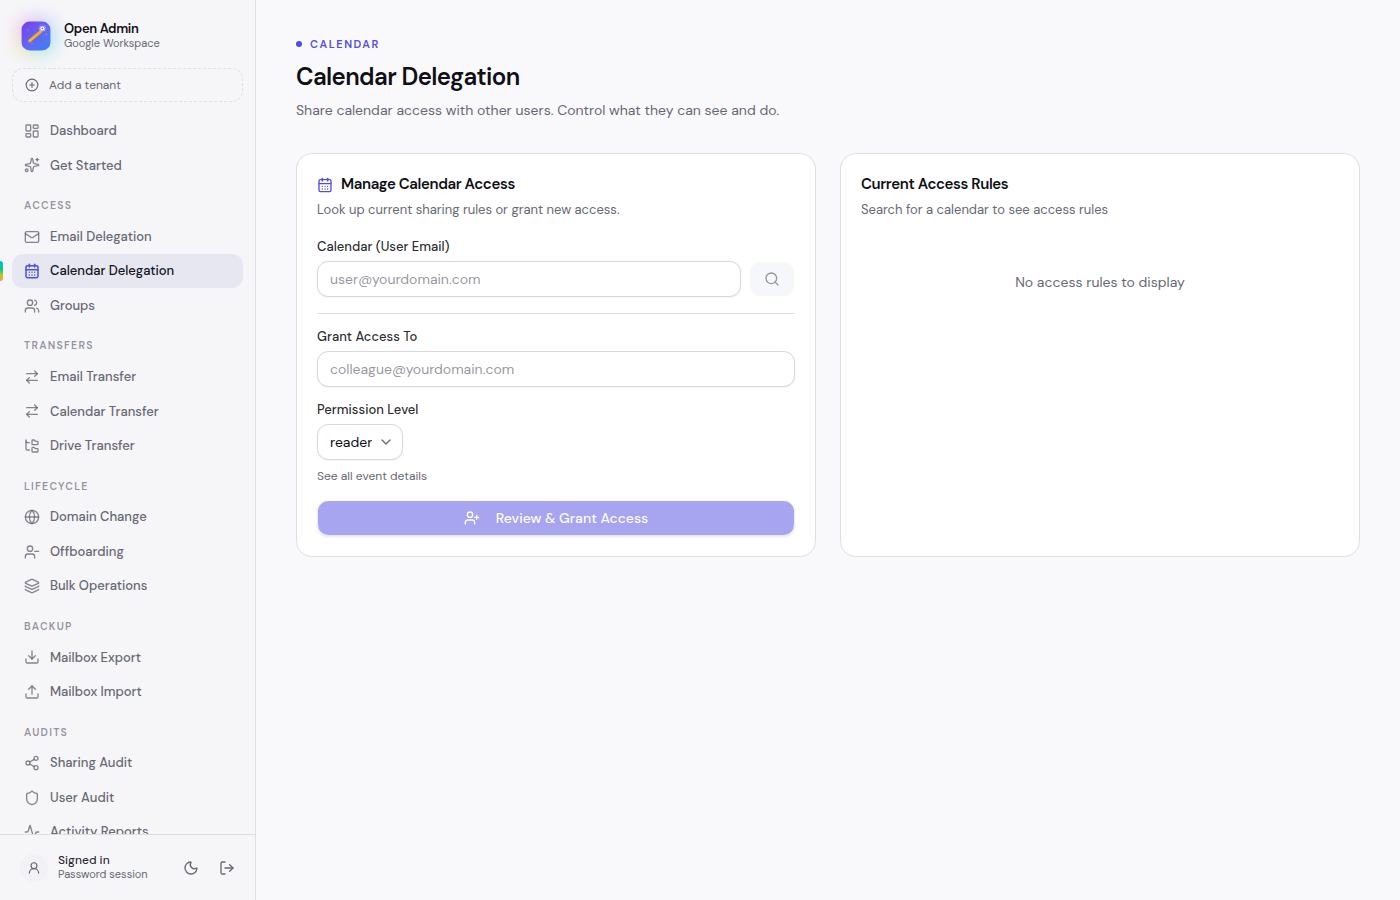
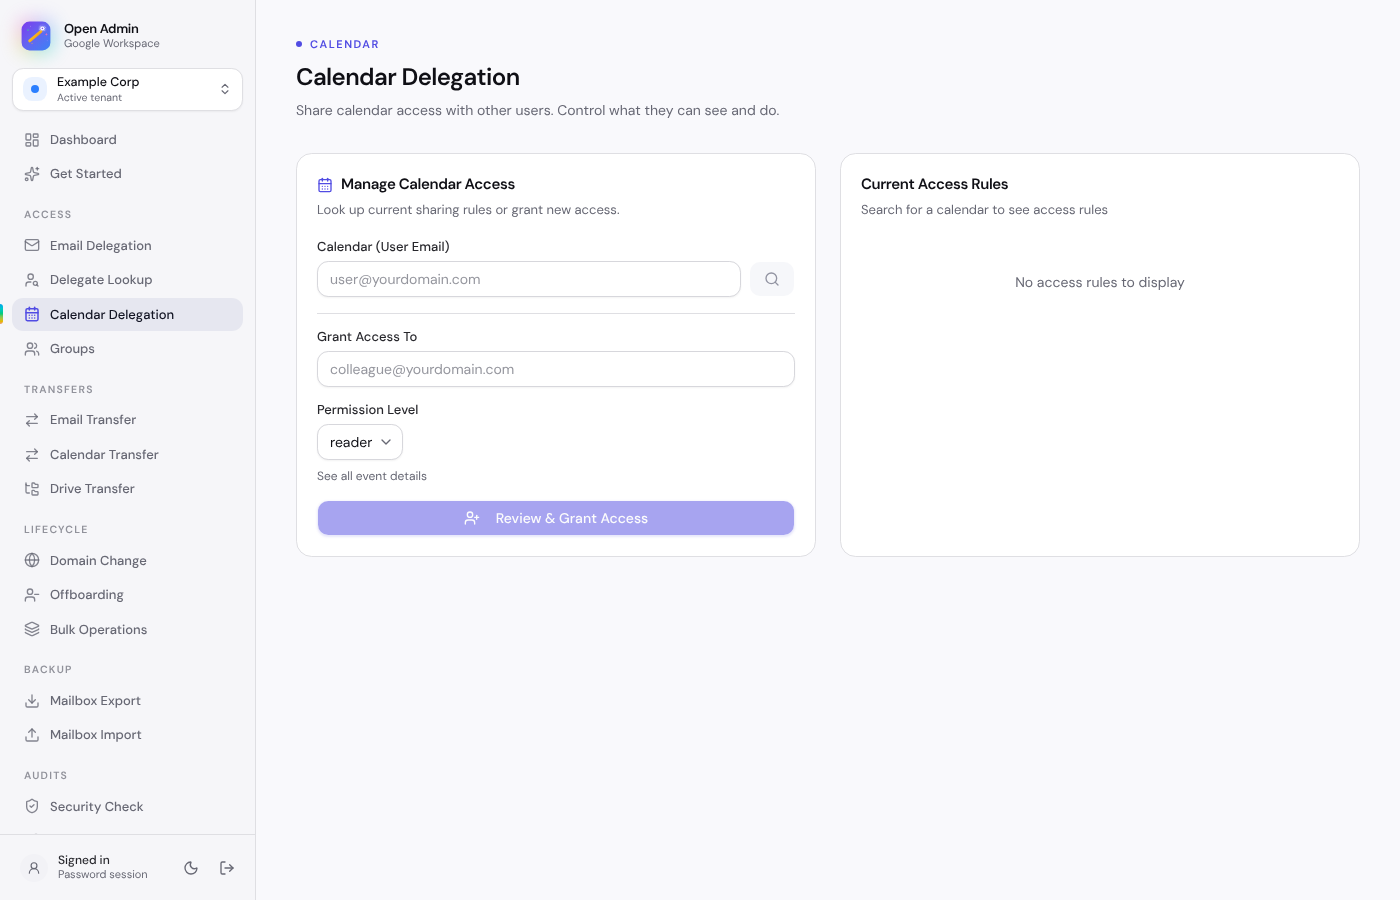
Bring the README up to date with the app: features, permissions, screenshots
An audit of the README against the app found it had fallen behind in three
ways.

Features. Groups, Drive Transfer, Bulk Operations, Activity Reports, the
Security Digest and the in-app Audit Log viewer are all in the sidebar and
were not mentioned anywhere. Each has an entry now. Offboarding's entry gains
the group-removal step it has had for a while, and User Audit's the group
memberships and recent sign-ins it reads.

Directions. The service-account setup listed 12 scopes; the app checks 14.
admin.directory.group and admin.reports.audit.readonly were missing, so a
tenant set up from the README had Groups, Activity Reports and the
offboarding group step fail with an authorisation error. The list now matches
preflight.ts exactly, and points at Tenants -> Test scopes, which says which
ones Google is missing.

Screenshots. Ten pages had none, and the rest dated from September and showed
a sidebar without the pages added since. All are regenerated from the current
build, light and dark, against a sample tenant, and the README lists every
page in sidebar order. scripts/screenshots.mjs now covers every page for the
same reason; security-check.png stays out of it because it shows a finished
scan, which loading a URL can't produce.

Claude-Session: https://claude.ai/code/session_01SD8Z1GAEVkuY2dYGiQVZa9

diff --git a/README.md b/README.md
@@ -24,20 +24,25 @@ This project takes `gws` and wraps it in a clean web UI with AI superpowers. Ins
 - 📧 **Email Delegation** — Give someone access to another user's mailbox. No password sharing, no drama. If Google refuses because the owner (or the delegate) is suspended, the dialog says so and offers to re-enable the account and retry, behind a typed confirmation.
 - 🔎 **Delegate Lookup** — The reverse question: which mailboxes can *this person* read, and since when? Gmail only lists delegates per mailbox, so the lookup walks every active mailbox in the tenant (paged, cancellable; suspended accounts are counted but skipped, since Google won't read their settings) and shows every match with a one-click remove. Grants made through Open Admin show their exact date and operator from the audit log; everything else shows how long Open Admin has known about it, because Google doesn't record when a delegate was added.
 - 📅 **Calendar Delegation** — Share a calendar with configurable permissions (free/busy, read, edit, full control).
+- 👥 **Groups** — Browse and search groups, see who's in each one and change it (member, manager or owner), and look up every group a user belongs to.
 - 🔄 **Calendar Transfer** — Hand off calendar ownership to another user. Great for offboarding.
 - 📬 **Email Transfer** — Set up auto-forwarding from one mailbox to another. External-domain transfers require explicit confirmation.
+- 🗂 **Drive Transfer** — Pick folders in a user's Drive and hand ownership of each folder, and everything inside it, to another user in the same tenant. Behind a typed confirmation.
 - 🌐 **Domain Change** — Switch a user's primary email to a different domain in your tenant. Server-side preflight + read-after-write verification.
-- 👋 **Offboarding** — One screen, one click. Vacation responder, mail forwarding, calendar + Drive ownership transfer, OAuth token revocation, sign-out, and account suspension — in the right order, with full diff preview before anything fires.
+- 👋 **Offboarding** — One screen, one click. Vacation responder, mail forwarding, calendar + Drive ownership transfer, removal from every group, OAuth token revocation, sign-out, and account suspension — in the right order, with full diff preview before anything fires.
+- 🧮 **Bulk Operations** — Paste or upload a CSV and run one operation across many users: add or remove a mailbox delegate, or set up forwarding. Every row is validated before anything fires, each row reports its own result, and the results export as a CSV.
 - 💾 **Mailbox Export** — Back up a user's entire Gmail mailbox to a portable file. Choose **NDJSON** for a full-fidelity backup (raw MIME with labels and dates preserved, restorable via Mailbox Import) or **mbox** for a standard mailbox file you can open in Thunderbird, Apple Mail, or convert to PST. Walks the mailbox page by page, streams straight to disk, cancellable mid-run (you keep what's gathered).
 - 📥 **Mailbox Import** — Restore a mailbox export into another user. Recreates the source's labels by name, then inserts every message via IMAP-style append (no re-delivery, no spam reclassification) with original dates intact — gated behind a typed confirmation since it writes into a live mailbox.
 - 🩺 **Security Check** — One read-only pass over the whole tenant for the four things that most often lead to trouble: accounts without 2-Step Verification (administrators first), active accounts nobody signs in to (30 days to a year, your pick), mailboxes forwarding mail outside your domains — by the forwarding setting or by a filter, with the ones that delete the original called out — and outside apps holding access to mail, Drive or admin settings, with who granted each. Paged and cancellable, CSV export, and it won't call a check clean if there were accounts it couldn't read.
+- 📈 **Activity Reports** — Sign-in and Admin Console activity straight from Google's Reports API, by user and period, with CSV export.
 - 🔍 **External Sharing Audit** — Per-user or tenant-wide Drive scan that surfaces every file shared outside your verified domains, including link-shared / "anyone with link" content. Cancellable, progress-tracked, CSV export, and one-click "revoke external sharing" per file or in bulk — strips only external permissions, leaves internal collaborators alone.
 - 🏢 **Multi-Tenant Support** — Configure multiple Google Workspace environments (Production, Sandbox, etc.) and switch between them instantly from the sidebar. Per-request tenant isolation — nothing carries over between tenants.
 
 ### AI-powered (Gemini)
 
 - ✨ **AI Command** (right on the dashboard) — Type what you need in plain English. *"Give sarah access to john's mailbox"* → it parses the intent, validates the params, shows you what it'll do, and waits for your OK. No menu hunting, no extra clicks.
-- 🛡 **User Audit** — Enter a user's email and get a full AI-generated report: who has access to their mailbox, calendar sharing rules, forwarding config, and security flags.
+- 🛡 **User Audit** — Enter a user's email and get a full AI-generated report: who has access to their mailbox, calendar sharing rules, forwarding config, group memberships, recent sign-ins, and security flags.
+- 🧾 **Security Digest** — On the Activity Reports page: a Gemini summary of the last few days of sign-in and admin activity, so you read a paragraph instead of a log.
 
 ### Safety & ops
 
@@ -47,7 +52,7 @@ This project takes `gws` and wraps it in a clean web UI with AI superpowers. Ins
 - 💼 **Portable configuration** — Export everything — single sign-on settings, tenants, and the service-account key files themselves — to one JSON bundle from **App Settings**, and restore it on another server in one click. Keys are written back to disk automatically (relocated if the original path doesn't exist there), with a preview first and a typed confirmation only when overwriting an already-configured server.
 - 🛡 **CSRF protection** — Same-origin Origin/Referer check on every mutating API route, validated against the canonical request host.
 - ⚠ **Confirmation dialogs, enforced server-side** — Every destructive action (domain change, calendar transfer, external email transfer, offboarding, account suspension, Drive transfer, mailbox import, bulk un-share) shows a before→after diff and requires you to type the target email or identifier. The API re-checks that typed value, so the guard holds for anything calling the routes directly, not just the browser.
-- 📜 **Audit log** — Append-only JSON-lines log of every mutation — tenant edits included — recording which operator ran it (their single sign-on address, or `password-session`), with secrets redacted and rejected payloads bounded (`AUDIT_LOG_PATH` env var to control location). Rotates at 8 MB keeping three older files, so a long-running install stays bounded at ~32 MB.
+- 📜 **Audit log** — Append-only JSON-lines log of every mutation — tenant edits included — recording which operator ran it (their single sign-on address, or `password-session`), with secrets redacted and rejected payloads bounded (`AUDIT_LOG_PATH` env var to control location). Rotates at 8 MB keeping three older files, so a long-running install stays bounded at ~32 MB. The **Audit Log** page reads it in the app: filter by action, outcome, tenant and date, and export what you see as CSV.
 - 🧪 **Atomic config writes** — `tenants.json`, `sso.json` and `app-config.json` share one store implementation: tmp-file + fsync + rename with an in-process mutex, so a crash mid-write can't corrupt your config.
 
 ### Polish
@@ -66,20 +71,31 @@ This project takes `gws` and wraps it in a clean web UI with AI superpowers. Ins
 <details>
 <summary>📸 More screenshots</summary>
 
-### User Audit
-![User Audit](docs/screenshots/audit.png)
+Every page, in sidebar order. They show a sample tenant (`example.com`), not real data.
+
+### Get Started
+![Get Started](docs/screenshots/get-started.png)
 
 ### Email Delegation
 ![Email Delegation](docs/screenshots/email-delegation.png)
 
+### Delegate Lookup
+![Delegate Lookup](docs/screenshots/delegation-lookup.png)
+
 ### Calendar Delegation
 ![Calendar Delegation](docs/screenshots/calendar-delegation.png)
+
+### Groups
+![Groups](docs/screenshots/groups.png)
+
+### Email Transfer
+![Email Transfer](docs/screenshots/email-transfer.png)
 
 ### Calendar Transfer
 ![Calendar Transfer](docs/screenshots/calendar-transfer.png)
 
-### Email Transfer
-![Email Transfer](docs/screenshots/email-transfer.png)
+### Drive Transfer
+![Drive Transfer](docs/screenshots/drive-transfer.png)
 
 ### Domain Change
 ![Domain Change](docs/screenshots/domain-change.png)
@@ -87,20 +103,44 @@ This project takes `gws` and wraps it in a clean web UI with AI superpowers. Ins
 ### Offboarding
 ![Offboarding](docs/screenshots/offboarding.png)
 
+### Bulk Operations
+![Bulk Operations](docs/screenshots/bulk.png)
+
+### Mailbox Export
+![Mailbox Export](docs/screenshots/mailbox-export.png)
+
+### Mailbox Import
+![Mailbox Import](docs/screenshots/mailbox-import.png)
+
 ### Security Check
 ![Security Check](docs/screenshots/security-check.png)
 
 ### External Sharing Audit
-![Sharing Audit](docs/screenshots/sharing-audit.png)
+![External Sharing Audit](docs/screenshots/sharing-audit.png)
 
-### Tenants
-![Tenants](docs/screenshots/tenants.png)
+### User Audit
+![User Audit](docs/screenshots/audit.png)
+
+### Activity Reports
+![Activity Reports](docs/screenshots/activity-reports.png)
+
+### Audit Log
+![Audit Log](docs/screenshots/audit-log.png)
 
 ### Setup
 ![Setup](docs/screenshots/setup.png)
 
+### Tenants
+![Tenants](docs/screenshots/tenants.png)
+
 ### Single Sign-On
 ![Single Sign-On](docs/screenshots/sso.png)
+
+### App Settings
+![App Settings](docs/screenshots/settings.png)
+
+### Sign-in
+![Sign-in](docs/screenshots/login.png)
 
 </details>
 
@@ -292,9 +332,13 @@ The app runs `gws` commands and `googleapis` SDK calls on the server side. For r
    - `https://www.googleapis.com/auth/admin.directory.user` (Domain Change, Offboarding, Security Check)
    - `https://www.googleapis.com/auth/admin.directory.user.security` (Offboarding — OAuth token revoke, sign-out; Security Check — connected apps)
    - `https://www.googleapis.com/auth/admin.directory.domain.readonly` (Domain Change, Sharing Audit)
+   - `https://www.googleapis.com/auth/admin.directory.group` (Groups, Offboarding — removal from groups)
+   - `https://www.googleapis.com/auth/admin.reports.audit.readonly` (Activity Reports, Security Digest, recent sign-ins in User Audit)
    - `https://www.googleapis.com/auth/admin.datatransfer` (Offboarding — Drive ownership transfer)
    - `https://www.googleapis.com/auth/drive.metadata.readonly` (Sharing Audit)
    - `https://www.googleapis.com/auth/drive` (Sharing Audit — revoke external sharing)
+
+   Not sure you got them all? Once the tenant is added, **Tenants → Test scopes** asks Google about each one and tells you which are missing.
 4. Set an admin email for impersonation (Domain Change and Admin SDK calls need this):
    ```bash
    export GOOGLE_WORKSPACE_ADMIN_EMAIL=admin@yourdomain.com
